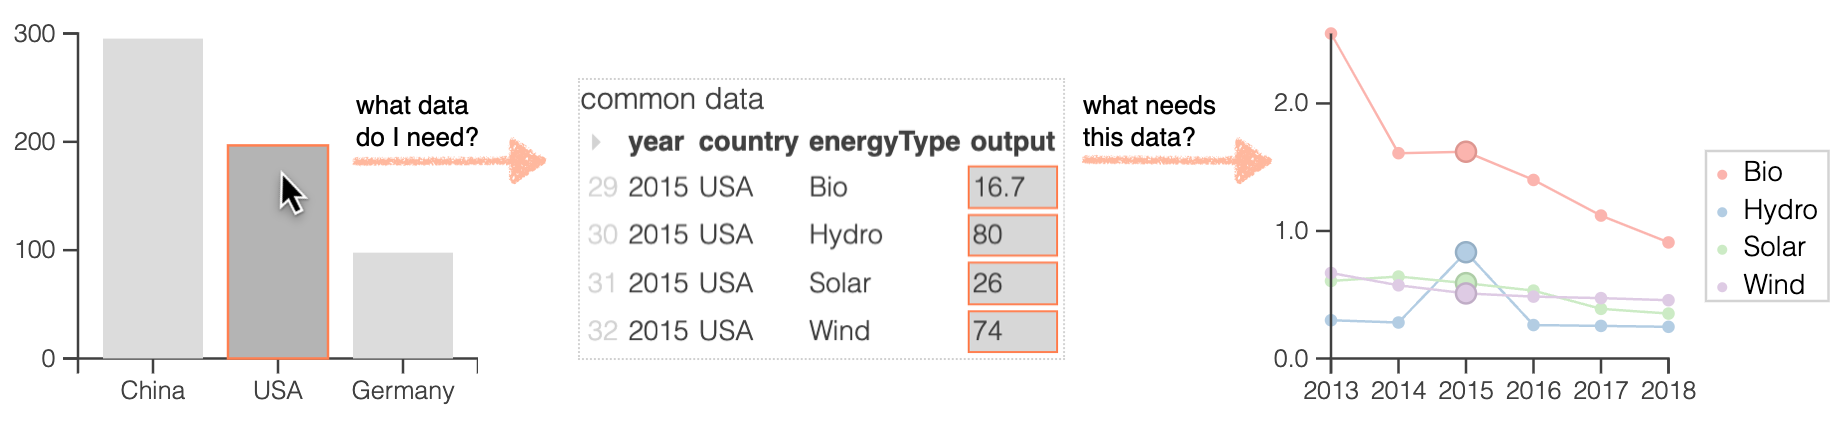
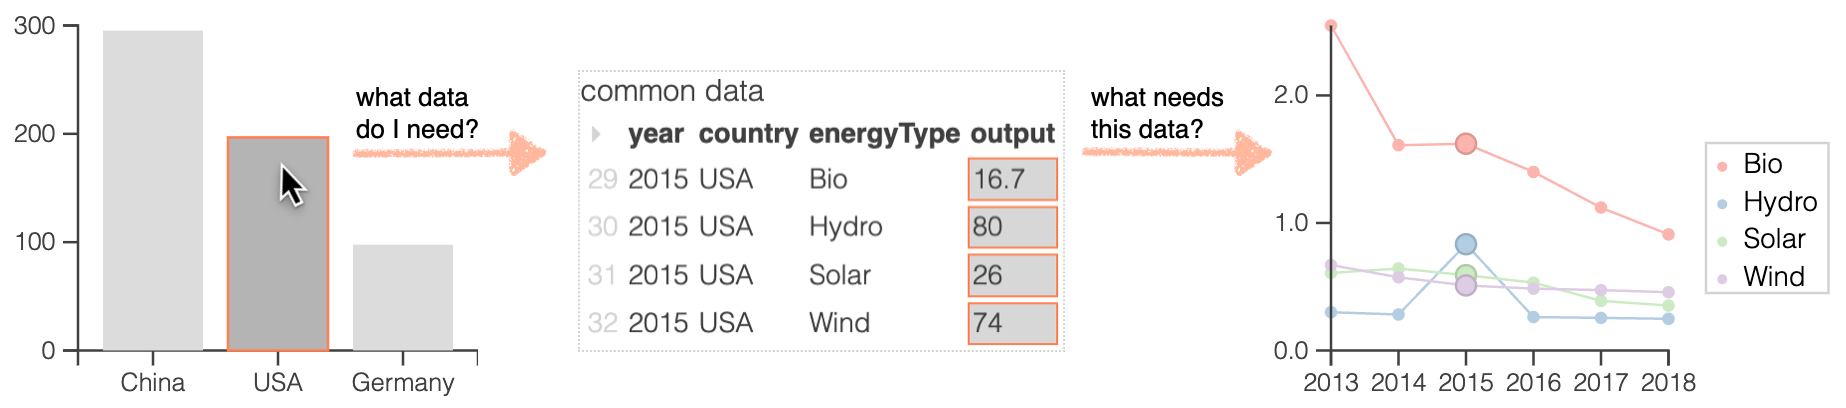
Tweaks to new fig.1.

diff --git a/sec/example.tex b/sec/example.tex
@@ -8,15 +8,21 @@ flow statements and branches explicitly, as originally described in \citet{agraw
 
 In functional languages there has been recent work, that of \citet{perera22} which showed
 that one can formally model the relationship between structured inputs and structured outputs
-using a Galois connection. This idea of Galois slicing not only allowed them to compute 
-fine-grained program slices of structured outputs, but also allowed them to build a formal 
+using a Galois connection. This idea of Galois slicing not only allowed them to compute
+fine-grained program slices of structured outputs, but also allowed them to build a formal
 model of the task of \textit{brushing and linking} \citep{becker87} multiple structured visualizations
-of the same dataset, see \figref{linked-outputs}. 
+of the same dataset, see \figref{linked-outputs}.
 
 \begin{figure}
-   {\centering\includegraphics[scale=0.5]{fig/example/vis-linking.png}}
-   \caption{Example of linked outputs from \citet{perera22}}
-   \label{fig:linked-outputs}
+%   \begin{subfigure}{\textwidth}
+   {\centering\includegraphics[scale=0.4]{fig/example/linked-outputs-1.png}}
+   \label{fig:linked-outputs-1}
+%   \end{subfigure}
+%   \begin{subfigure}{\textwidth}
+   {\centering\includegraphics[scale=0.4]{fig/example/linked-outputs-2.png}}
+   \label{fig:linked-outputs-2}
+%   \end{subfigure}
+   \caption{Examples of linked outputs, adapted from~\citet{perera22}}
 \end{figure}
 
 
@@ -41,7 +47,7 @@ Our work, which aims to combine the dynamic dependence graph approach with the n
 connections has allowed us to give a simple description of the \textit{linked-inputs}
 query described above, as a composition of two traversals of the same program graph.
 
-In contrast to prior work which used traces the slicing procedures, and their duals, are 
+In contrast to prior work which used traces the slicing procedures, and their duals, are
 much easier to describe in the graphical setting. Backwards slicing -  as we shall discuss
 in \secref{graph} - is effectively just a breadth-first search of a graph. Forward slicing
 is not much more complicated. We shall also see how the graphical setting simplifies the De Morgan duals,
@@ -72,8 +78,8 @@ and \textit{cities} are variables which represent the two tables used to produce
 The process of linking together inputs is sketched thusly: first the user selects the input data
 they know they are interested in. Then \OurLang applies the forward slicing procedure on that
 input selection, to select elements of the bubble chart the input data was used to compute.
-Then we use the De Morgan dual of the backward slicing procedure to find the input 
-data in the second table which had a hand in creating the selected output. 
+Then we use the De Morgan dual of the backward slicing procedure to find the input
+data in the second table which had a hand in creating the selected output.
 
 We now suppose the user wishes to expand the data they are interested in looking it.
 By updating the selection information on the input, say expanding our selection of
